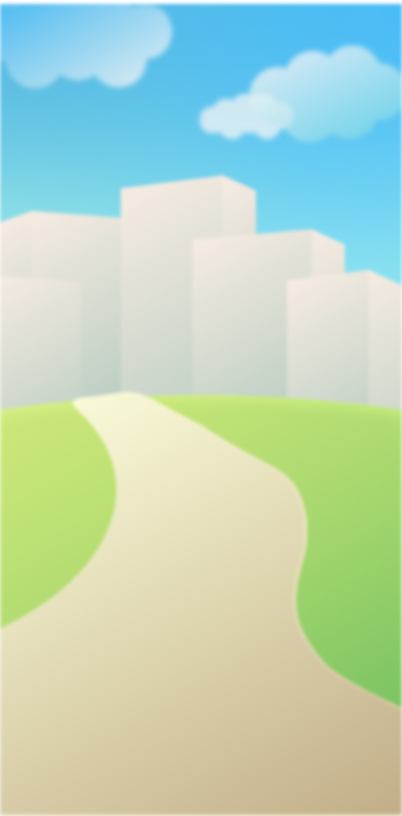
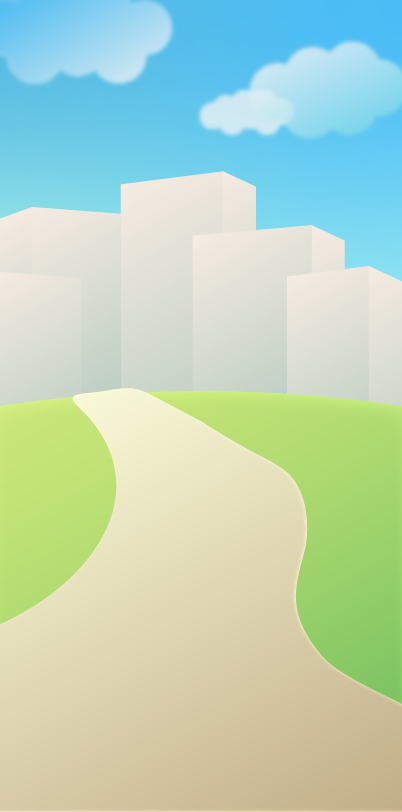
背景の変更

diff --git a/app/src/styles/quest_playing.scss b/app/src/styles/quest_playing.scss
@@ -1,97 +1,117 @@
 @use '../styles/common.scss' as *;
 
+.wrapper {
+    position: relative;
+    height: 100vh;
+    overflow: hidden;
+}
+
 //背景画像
 .backImage {
     background-image: url('../assets/quest_playing_background.png');
-    height: 100vh;
+    background-size: cover;
+    background-position: center;
+    top: 0;
+    left: 0;
+    width: 100%;
+    height: 100%;
+    filter: blur(2px);
+    position: absolute;
+    z-index: -1;
 }
 
-//ressを使う時はフォントサイズをremに！！
-//戻るボタンとテキストボタンの親
-.top-element {
-    display: flex;
-    gap: 45px;
-   // margin-top: 27px; marginの折りたたみが発生するのでpaddingに変更
-    padding-top: 27px;
-    margin-left: 14px;
-}
-
-//戻るボタン
-.arrow-back {
-    margin-top: -10px;
-    filter: drop-shadow(0 0 16px rgba(68, 68, 68, 0.25))
-}
-
-//上部テキスト
-.text-quest {
-    color: $base;
-    font-size: 2.4rem;
-    font-weight: bold;
-    filter: drop-shadow(0 0 16px rgba(68, 68, 68, 0.25))
-}
-
-//キャラクター
-.image-placeholder {
-    margin: 0 auto;
-    width: 300px;
-    text-align: center; //imgはインライン要素なので親のdivに指定すれば真ん中に来る
-    margin-top: 10px;
-
-}
-
-//吹き出し配置
-.fukidashi {
-    width: 300px;
-    margin: 0 auto;
-    text-align: center;
-    margin-top: 40px;
-}
-
-//吹き出し本体
-.speechBubble {
+.content {
     position: relative;
-    display: inline-block;
-    width: 280px;
-    margin-bottom: 20px;
-    padding: 18px 26px;
-    border: 2px solid #d9d9d9;
-    border-radius: 24px;
-    background-color: #fafaf8;
-    text-align: center;
-    font-size: 16px;
-    font-weight: 400;
-    line-height: 1.5;
-    color: #000000;
-}
+    z-index: 1;
 
-.speechBubble::before {
-    content: "";
-    position: absolute;
-    bottom: 0;
-    left: 19%;
-    border-style: solid;
-    border-width: 20px 0 0 20px;
-    border-color: #d9d9d9 transparent transparent;
-    translate: -50% 100%;
-    transform: skew(9deg);
-    transform-origin: top;
-}
+    //ressを使う時はフォントサイズをremに！！
+    //戻るボタンとテキストボタンの親
+    .top-element {
+        display: flex;
+        gap: 45px;
+        // margin-top: 27px; marginの折りたたみが発生するのでpaddingに変更
+        padding-top: 27px;
+        margin-left: 14px;
+    }
 
-.speechBubble::after {
-    content: "";
-    position: absolute;
-    bottom: 0;
-    left: 19%;
-    border-style: solid;
-    border-width: 15.2px 0 0 15.2px;
-    border-color: #fafaf8 transparent transparent;
-    translate: calc(-50% + 0.4px) 100%;
-    transform: skew(9deg);
-    transform-origin: top;
-}
+    //戻るボタン
+    .arrow-back {
+        margin-top: -10px;
+        filter: drop-shadow(0 0 16px rgba(68, 68, 68, 0.25))
+    }
 
-//クエストクリアorクエスト失敗に遷移するボタン
-.button-arrangement {
-   text-align: center;
-   margin-top: 30px;
+    //上部テキスト
+    .text-quest {
+        color: $base;
+        font-size: 2.4rem;
+        font-weight: bold;
+        filter: drop-shadow(0 0 16px rgba(68, 68, 68, 0.25))
+    }
+
+    //キャラクター
+    .image-placeholder {
+        margin: 0 auto;
+        width: 300px;
+        text-align: center; //imgはインライン要素なので親のdivに指定すれば真ん中に来る
+        margin-top: 10px;
+
+    }
+
+    //吹き出し配置
+    .fukidashi {
+        width: 300px;
+        margin: 0 auto;
+        text-align: center;
+        margin-top: 40px;
+    }
+
+    //吹き出し本体
+    .speechBubble {
+        position: relative;
+        display: inline-block;
+        width: 280px;
+        margin-bottom: 20px;
+        padding: 18px 26px;
+        border: 2px solid #d9d9d9;
+        border-radius: 24px;
+        background-color: #fafaf8;
+        text-align: center;
+        font-size: 16px;
+        font-weight: 400;
+        line-height: 1.5;
+        color: #000000;
+    }
+
+    .speechBubble::before {
+        content: "";
+        position: absolute;
+        bottom: 0;
+        left: 19%;
+        border-style: solid;
+        border-width: 20px 0 0 20px;
+        border-color: #d9d9d9 transparent transparent;
+        translate: -50% 100%;
+        transform: skew(9deg);
+        transform-origin: top;
+    }
+
+    .speechBubble::after {
+        content: "";
+        position: absolute;
+        bottom: 0;
+        left: 19%;
+        border-style: solid;
+        border-width: 15.2px 0 0 15.2px;
+        border-color: #fafaf8 transparent transparent;
+        translate: calc(-50% + 0.4px) 100%;
+        transform: skew(9deg);
+        transform-origin: top;
+    }
+
+    //クエストクリアorクエスト失敗に遷移するボタン
+    .button-arrangement {
+        text-align: center;
+        margin-top: 30px;
+    }
+
 }

diff --git a/app/src/pages/quest_playing.tsx b/app/src/pages/quest_playing.tsx
@@ -17,30 +17,34 @@ export default function QuestPlaying() {
 
     return (
         <>
-            {/*背景画像*/}
-            <div className="backImage">
+            <div className="wrapper">
+                {/*背景画像*/}
+                <div className="backImage" />
 
-                {/*クエスト生成画面に戻る*/}
-                <div className="top-element">
-                    <img className="arrow-back" onClick={goToHome} src={images.arrowBack} alt="クエスト生成画面に戻る" />
-                    <p className="text-quest">クエスト進行中...</p>
+                <div className="content">
+
+                    {/*クエスト生成画面に戻る*/}
+                    <div className="top-element">
+                        <img className="arrow-back" onClick={goToHome} src={images.arrowBack} alt="クエスト生成画面に戻る" />
+                        <p className="text-quest">クエスト進行中...</p>
+                    </div>
+
+                    {/*吹き出し*/}
+                    <div className="fukidashi">
+                        <div className="speechBubble">カフェに行こう</div>
+                    </div>
+
+                    {/*キャラクター*/}
+                    <div className="image-placeholder">
+                        <img src={images.characterLowHands} alt="キャラクター手を下げている状態" />
+                    </div>
+
+                    {/*クエストクリアorクエスト失敗に遷移*/}
+                    <div className="button-arrangement">
+                        <Button variant="small" onClick={goToHome} >到着!</Button>
+                    </div>
+
                 </div>
-
-                {/*吹き出し*/}
-                <div className="fukidashi">
-                    <div className="speechBubble">カフェに行こう</div>
-                </div>
-
-                {/*キャラクター*/}
-                <div className="image-placeholder">
-                    <img src={images.characterLowHands} alt="キャラクター手を下げている状態" />
-                </div>
-
-                {/*クエストクリアorクエスト失敗に遷移*/}
-                <div className="button-arrangement">
-                    <Button variant="small" onClick={goToHome} >到着!</Button>
-                </div>
-
 
             </div>
 

diff --git a/app/src/styles/quest_clear.scss b/app/src/styles/quest_clear.scss
@@ -7,37 +7,56 @@
 //     border: 2px dashed #aaa; // 点線
 // }
 
+.wrapper {
+    position: relative;
+    height: 100vh;
+    overflow: hidden;
+}
+
 //背景グラデーション
 .backGra {
-    background: linear-gradient(180deg,#FAFAF8 0%, #F1DA6A 100%);
-    height: 100vh;
-}
-
-/*ダイアログ*/
-.quest-dialog {
-    background-color: $base;
-    color: #FFF;
-    width: 322px;
-    height: 300px;
-    border-radius: 24px;    
-    position: relative;
-    overflow: visible;      //はみ出たものを表示
-}
-
-/*ダイアログ内のテキスト*/
-.dialog-intext {
-    background-color: $main;
-    height: 48px;
-    width: 258px;
-    display: flex;              //*中のテキストを水平、垂直で真ん中にするよう
-    align-items: center;        //*垂直中央揃え 
-    justify-content: center;    //*水平方向中央揃え 
-    margin: 0 auto;             //上下：０　左右：autoで均等に
-
+    background: linear-gradient(180deg, #FAFAF8 0%, #F1DA6A 100%);
+    background-size: cover;
+    background-position: center;
     position: absolute;
-    top: -10px;
-    left: 12%;
-    
-    // text-align: center; //クエスト続ける？を中央に
-    // margin: 0 auto; //中央寄せ
+    top: 0;
+    left: 0;
+    width: 100%;
+    height: 100%;
+    filter: blur(2px);
+    z-index: -1;
+}
+
+.content {
+    position: relative;
+    z-index: 1;
+
+    /*ダイアログ*/
+    .quest-dialog {
+        background-color: $base;
+        color: #FFF;
+        width: 322px;
+        height: 300px;
+        border-radius: 24px;
+        position: relative;
+        overflow: visible; //はみ出たものを表示
+    }
+
+    /*ダイアログ内のテキスト*/
+    .dialog-intext {
+        background-color: $main;
+        height: 48px;
+        width: 258px;
+        display: flex; //*中のテキストを水平、垂直で真ん中にするよう
+        align-items: center; //*垂直中央揃え 
+        justify-content: center; //*水平方向中央揃え 
+        margin: 0 auto; //上下：０　左右：autoで均等に
+
+        position: absolute;
+        top: -10px;
+        left: 12%;
+
+        // text-align: center; //クエスト続ける？を中央に
+        // margin: 0 auto; //中央寄せ
+    }
 }

diff --git a/app/src/pages/quest_clear.tsx b/app/src/pages/quest_clear.tsx
@@ -11,23 +11,26 @@ export default function QuestClear() {
     const handleCloseModal = () => dialogRef.current?.close();      //close()      dialogを閉じる
     return (
         <>
-            <div className="backGra">
-                <p className="text-quest">クエストクリア達成</p>
+            <div className="wrapper">
+                <div className="backGra" />
+                <div className="content">
+                    <p className="text-quest">クエストクリア達成</p>
 
-                <div className="image-placeholder">キャラクター画像</div>
-                <button type="button" onClick={handleShowModal}>ダイアログおーぷん〜</button>
+                    <div className="image-placeholder">キャラクター画像</div>
+                    <button type="button" onClick={handleShowModal}>ダイアログおーぷん〜</button>
 
-                ダイアログ
-                <dialog ref={dialogRef} className="quest-dialog">
-                    <div className="dialog-intext">
-                        <h1>クエスト続ける？</h1>
-                    </div>
-                    <button type="button">続ける</button>
-                    <button type="button" onClick={handleCloseModal}>今日は終了</button> 
+                    ダイアログ
+                    <dialog ref={dialogRef} className="quest-dialog">
+                        <div className="dialog-intext">
+                            <h1>クエスト続ける？</h1>
+                        </div>
+                        <button type="button">続ける</button>
+                        <button type="button" onClick={handleCloseModal}>今日は終了</button>
 
-                </dialog>
-
+                    </dialog>
+                </div>
             </div>
+
         </>
     );
 };
